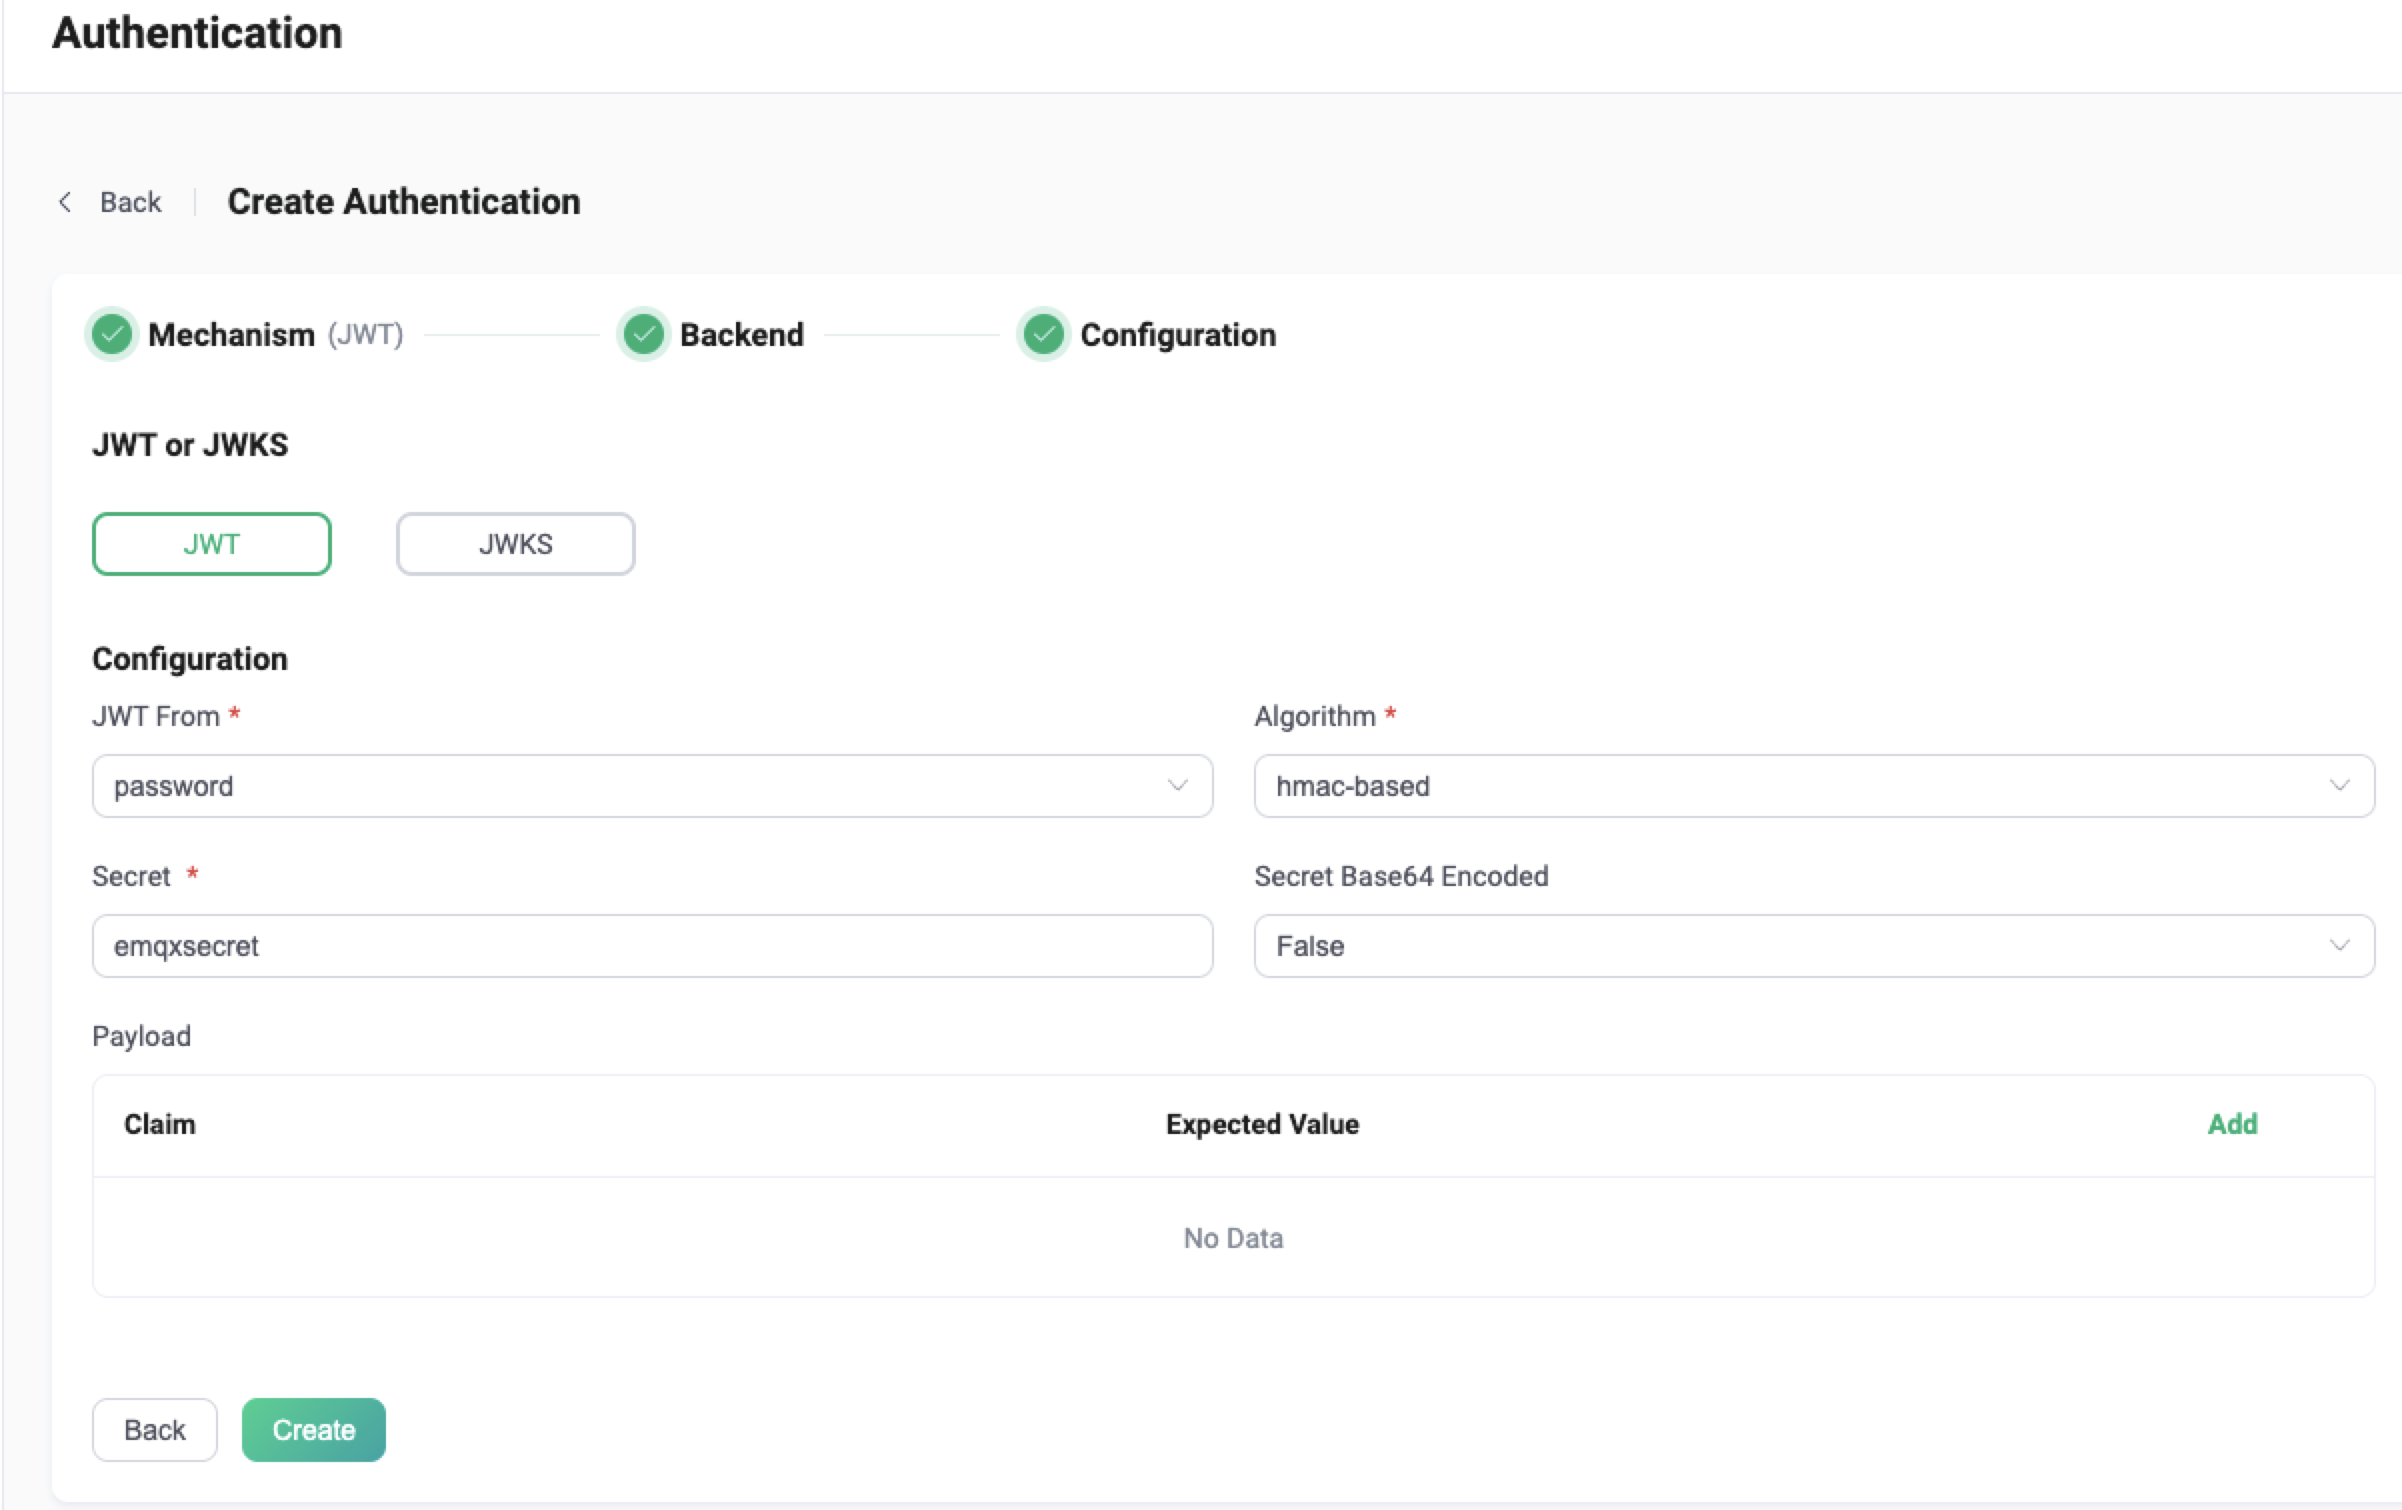
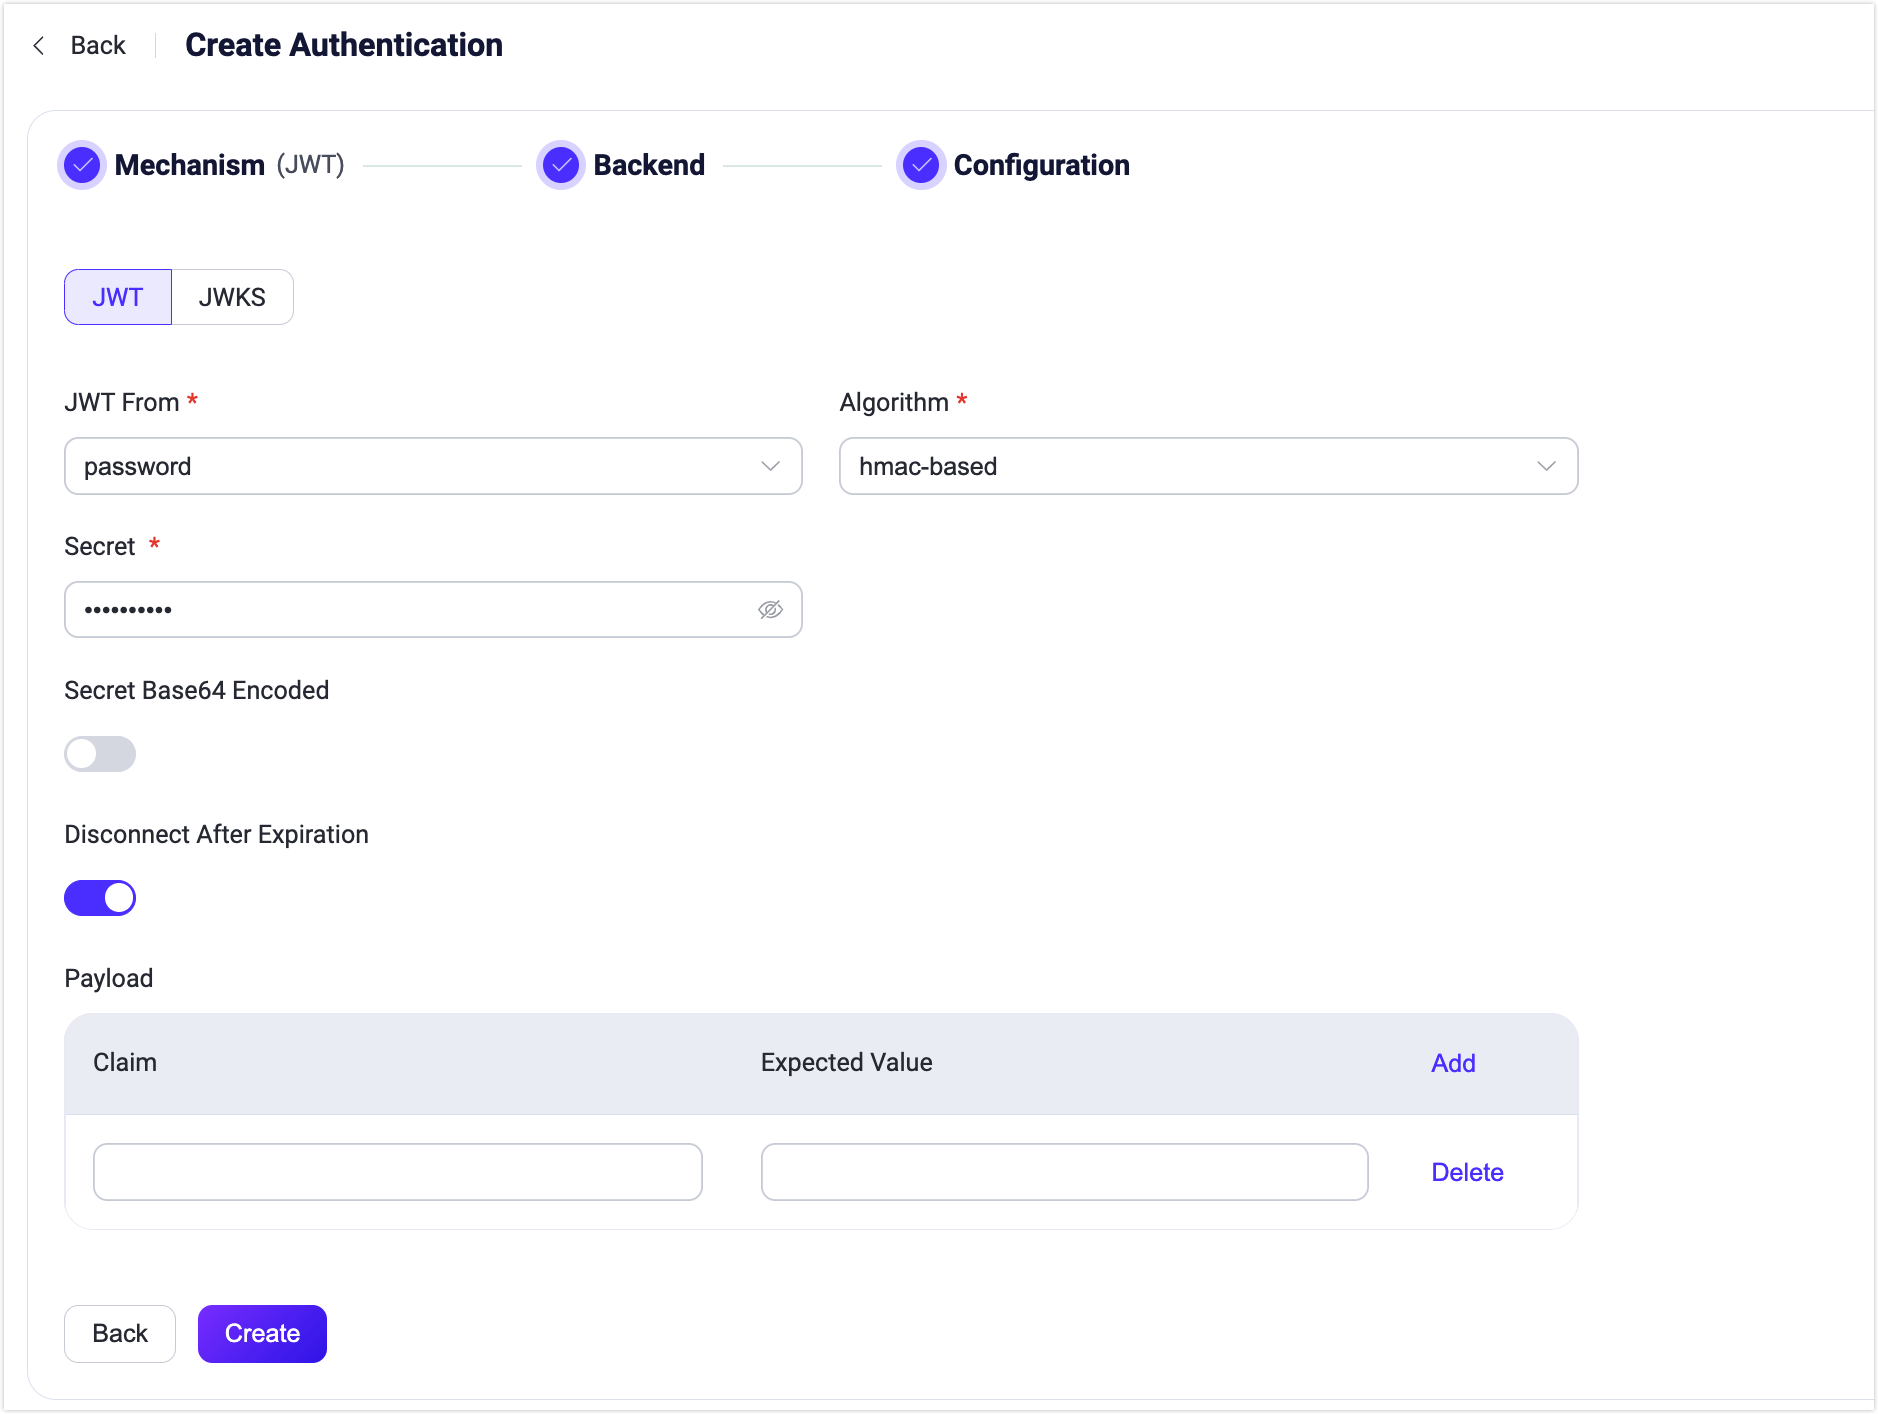
feat(JWT authn): Add `disconnect_after_expire` config

diff --git a/en_US/access-control/authn/jwt.md b/en_US/access-control/authn/jwt.md
@@ -12,7 +12,9 @@
 
 The client carries the JWT in the connection request, and EMQX uses the pre-configured secret or public key to verify the JWT signature. If the user configures a JWKS endpoint, the JWT authenticator will verify the JWT signature using the list of public keys queried from the JWKS endpoint. 
 
-If the signature verification is successful, the JWT authenticator proceeds to check the claims. If there are claims such as `iat`, `nbf` or `exp`, the JWT authenticator will actively check the validity of the JWT based on these claims. In addition to this, we also allow users to specify some additional claims checks. The client is finally allowed to login only if the signature verification and claims check pass together.
+If the signature verification is successful, the JWT authenticator proceeds to check the claims. The JWT authenticator actively checks the validity of the JWT based on these claims such as `iat` (Issued At), `nbf` (Not Before), and `exp` (Expiration Time). Additional custom claims can also be specified for verification. The client is granted access only if both the signature and claims verifications are successful.
+
+Starting from EMQX version 5.7.0, JWT authentication includes an option to disconnect clients after their JWT expires. The configuration parameter `disconnect_after_expire` is set to `true` by default. To keep clients connected even after their JWT has expired, you can set this parameter to `false`.
 
 ## Best Practice
 
@@ -127,35 +129,42 @@ In this example, `testpub1/${username}` is replaced at runtime with `testpub1/em
 
 ::::
 
-## Configure with Dashboard
+## Configure JWT Authentication in Dashboard
 
-On [EMQX Dashboard](http://127.0.0.1:18083/#/authentication), click **Access Control** -> **Authentication** on the left navigation tree to enter the **Authentication** page. Click **Create** at the top right corner, then click to select **Password-Based** as **Mechanism**, and **JWT** as **Backend**, this will lead us to the **Configuration** tab, as shown below. 
+1. Select **Access Control** -> **Authentication** from the left navigation menu. 
 
-<img src="./assets/authn-jwt.png" alt="JWT" style="zoom:67%;" />
+2. On the **Authentication** page, click **Create** at the top right corner. Click to select **JWT** as **Mechanism**, and click **Next**. Skip the Backend selection and go to the **Configuration** tab. 
 
-Follow the instruction below on how to configure:
+   <img src="./assets/authn-jwt.png" alt="JWT" style="zoom:67%;" />
 
-**JWT From**: Specify the location of the JWT in the client connection request; option values are `password` and `username`. For MQTT clients, these are the `Password` and `Username` fields in the MQTT `CONNECT` packet.
+3. Configure the following options:
 
-**Algorithm**: Specify the encryption algorithm of JWT, optional values are `hmac-based` and `public-key`. For different encryption methods, the JWT authenticator will have different configuration requirements.
+   - **JWT From**: Determines where the JWT is located in the client connection request. Available options are `password` and `username`, corresponding to the `Password` and `Username` fields in the MQTT `CONNECT` packet for MQTT clients.
 
-1. If configured as `hmac-based`, indicating that JWT will use symmetric secret to generate signature and verify signature (support HS256, HS384 and HS512 algorithms), we also need to configure:
-   - `Secret`: the key used to verify the signature (the same key used to generate the signature)
-   - `Secret Base64 Encode`: indicating whether the `Secret` is Base64 encrypted, that is, whether EMQX needs to perform Base64 decryption on the secret when verifying the signature.
+   - **Algorithm**: Specify the encryption algorithm of JWT. Optional values are `hmac-based` and `public-key`. Each selection dictates different configuration requirements.
 
-2. If configured as `public-key`, indicating that JWT uses the private key to generate the signature, and needs to use the public key to verify the signature (supports RS256, RS384, RS512, ES256, ES384 and ES512 algorithms), we also need to configure:
-   - `Public Key`: specifying the public key in PEM format used to verify the signature
+     - `hmac-based`: Uses a symmetric key for both generating and verifying the JWT's signature. Supported algorithms include HS256, HS384, and HS512. Configuration must include:
+       - `Secret`: The key used to verify the signature, identical to the one used for signature generation.
+       - `Secret Base64 Encode`: Configures whether the `Secret` is Base64 encoded, which determines if EMQX needs to decode the secret during signature verification.
 
-**Payload**: Specify additional claims checks that the user wants to perform. Users can define multiple key-value pairs with the **Claim** and **Expacted Value** fields, where the key is used to find the corresponding claim in the JWT, so it needs to have the same name as the JWT claim to be checked, and the value is used to compare with the actual value of the claim. Currently the placeholders supported are `${clientid}` and `${username}`, 
+     - `public-key`: Uses a private key to generate the JWT's signature and a public key for verification. Supported algorithms are RS256, RS384, RS512, ES256, ES384, and ES512. Configuration must include:
+        - `Public Key`: Specify the public key in PEM format used to verify the signature.
 
-EMQX also supports periodically obtaining the latest JWKS from the JWKS endpoint, which is essentially a set of public keys that will be used to verify any JWT issued by the authorization server and signed using the RSA or ECDSA algorithm. If we want to use this feature, we first need to switch to the **JWKS** configuration page.
+   - **Disconnect After Expiration**: Configures whether to disconnect clients after their JWT expires, enabled by default.
+   - **Payload**: Allows specification of additional claims checks. Users can define multiple key-value pairs under **Claim** and **Expected Value** fields. The `Claim` should match the JWT claim's name for accurate retrieval, and the `Expected Value` is compared against the claim's actual value. Currently the placeholders supported are `${clientid}` and `${username}`, 
 
-![](./assets/authn-jwt-2.png)
+4. Click **Create** to complete the configuration.
 
-So as shown above, we now have two brand-new configuration items:
+EMQX also supports periodically obtaining the latest JWKS from the JWKS endpoint, which is essentially a set of public keys used to verify any JWT issued by the authorization server and signed using the RSA or ECDSA algorithm. If you want to use this feature, you need to switch to the **JWKS** configuration page.
 
-1. `JWKS Server`: Specify the server endpoint address for EMQX to query JWKS, the endpoint needs to support GET requests and return a JWKS that conforms to the specification.
-2. `JWKS Refresh Interval`: Specify the refresh interval of JWKS, that is, the interval for EMQX to query JWKS.
+<img src="./assets/authn-jwt-2.png" style="zoom:67%;" />
+
+You need to configure the following JWKS-specific configuration items:
+
+- **JWKS Server**: Specify the server endpoint address for EMQX to query JWKS, the endpoint needs to support GET requests and return a JWKS that conforms to the specification.
+- **JWKS Refresh Interval**: Specify the refresh interval of JWKS, that is, the interval for EMQX to query JWKS.
+
+Click **Create** to complete the configuration.
 
 ## <!--Configure with Configuration Items-->
 
